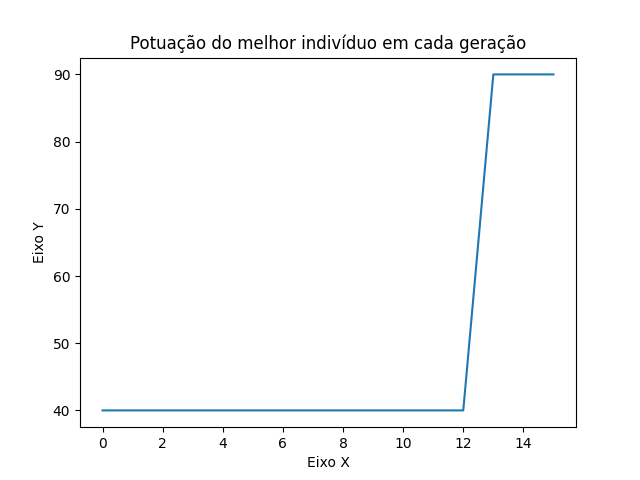
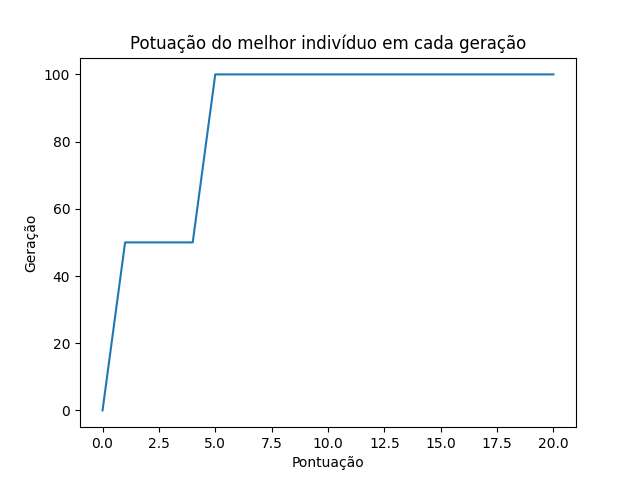
imagens

diff --git a/src/etapa_4/myag.py b/src/etapa_4/myag.py
@@ -156,8 +156,8 @@ def myAG(tam_geracao, tam_sequencia, num_de_geracoes, mapa: Mapa, ploting: bool,
         # Criar a primeira figura e o gráfico de linha
         fig1 = plt.figure()
         plt.plot(x1, y1)
-        plt.xlabel('Eixo X')
-        plt.ylabel('Eixo Y')
+        plt.xlabel('Pontuação')
+        plt.ylabel('Geração')
         plt.title('Potuação do melhor indivíduo em cada geração')
 
         x2 = np.arange(0, len(media_de_pontos_por_geracao))
@@ -166,8 +166,8 @@ def myAG(tam_geracao, tam_sequencia, num_de_geracoes, mapa: Mapa, ploting: bool,
         # Criar a primeira figura e o gráfico de linha
         fig2 = plt.figure()
         plt.plot(x2, y2)
-        plt.xlabel('Eixo X')
-        plt.ylabel('Eixo Y')
+        plt.xlabel('Pontuação')
+        plt.ylabel('Geração')
         plt.title('Potuação média em cada geração')
 
         # Exibir as duas figuras

diff --git a/src/etapa_4/main.py b/src/etapa_4/main.py
@@ -5,8 +5,8 @@ from agente import agente, imprimir_individuos, media_de_pontos_da_geracao
 from myag import myAG
 
 # Definindo as propriedades do mundo e as imprimindo
-altura = 4
-largura = 4
+altura = 5
+largura = 5
 pocos = 2
 wumpus = 1
 ouros = 1
@@ -31,9 +31,9 @@ while(True):
 print(mapa)
 
 
-myAG(tam_geracao=15, 
+myAG(tam_geracao=50, 
      tam_sequencia=10, 
-     num_de_geracoes=50, 
+     num_de_geracoes=20, 
      mapa=mapa,
      ploting=True,
      text=True)
